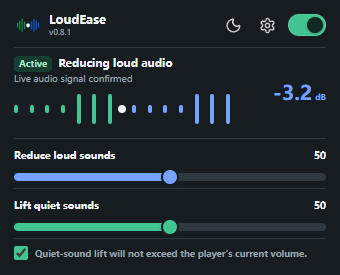
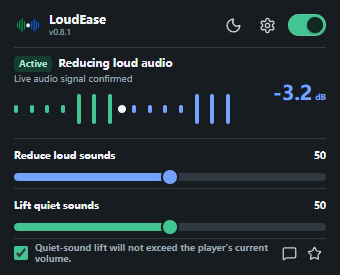
fix: keep support links compact in popup

Changed region(s): [[0.0882, 0.8727, 0.9412, 0.96]]

diff --git a/popup/index.css b/popup/index.css
@@ -29,7 +29,7 @@
 body { margin: 0; min-inline-size: 340px; color: var(--text); background: var(--surface); }
 button, input { font: inherit; }
 .shell { inline-size: 340px; padding: 12px 14px 11px; display: grid; gap: 0; overflow: hidden; }
-.header, .brand, .headerActions, .statusLine, .strengthTop, .limitSetting, .recoveryActions { display: flex; align-items: center; }
+.header, .brand, .headerActions, .statusLine, .strengthTop, .footerRow, .limitSetting, .supportActions, .recoveryActions { display: flex; align-items: center; }
 .header { block-size: 36px; justify-content: space-between; gap: 10px; border-block-end: 1px solid var(--line); padding-block-end: 9px; }
 .brand { gap: 7px; min-inline-size: 0; }
 .headerActions { flex: none; gap: 8px; }
@@ -95,8 +95,12 @@ output { font-size: 10px; font-weight: 760; font-variant-numeric: tabular-nums; 
 #liftRange { --accent: var(--input); }
 .strengthRange::-webkit-slider-thumb { inline-size: 18px; block-size: 18px; border: 2px solid var(--surface); border-radius: 50%; appearance: none; background: var(--accent); box-shadow: 0 1px 4px rgba(23, 32, 43, .16); }
 .strengthControl.isUnavailable { opacity: .45; }
-.limitSetting { min-block-size: 29px; gap: 7px; color: var(--muted); font-size: 9px; font-weight: 650; line-height: 1.25; cursor: pointer; }
+.footerRow { min-block-size: 29px; justify-content: space-between; gap: 7px; }
+.limitSetting { min-inline-size: 0; gap: 7px; color: var(--muted); font-size: 9px; font-weight: 650; line-height: 1.25; cursor: pointer; }
 .limitSetting input { inline-size: 14px; block-size: 14px; flex: none; margin: 0; accent-color: var(--input); }
+.supportActions { flex: none; gap: 1px; }
+.supportActions .iconButton { inline-size: 24px; block-size: 24px; padding: 4px; }
+.supportActions .iconButton img { inline-size: 15px; block-size: 15px; }
 .noticeStrip { margin-block-start: 6px; padding: 6px 7px; border-inline-start: 3px solid var(--warning); border-radius: 3px; color: #713f00; background: #fff2d9; font-size: 10px; overflow-wrap: anywhere; }
 .noticeChip + .noticeChip::before { content: " · "; }
 .recoveryActions { gap: 6px; flex-wrap: wrap; }

diff --git a/monitor/index.js b/monitor/index.js
@@ -8,8 +8,6 @@ const els = {
   tabs: document.getElementById('tabs'),
   events: document.getElementById('events'),
   refreshNow: document.getElementById('refreshNow'),
-  rateStore: document.getElementById('rateStore'),
-  starGitHub: document.getElementById('starGitHub'),
   shareFeedback: document.getElementById('shareFeedback'),
   shareReport: document.getElementById('shareReport'),
   copyJson: document.getElementById('copyJson'),
@@ -481,16 +479,6 @@ async function shareListeningFeedback() {
   els.health.textContent = t('feedbackOpened', undefined, 'Listening feedback form opened.');
 }
 
-async function openStoreReview() {
-  await openExternal('https://chromewebstore.google.com/detail/loudease/gdkaclfjhmenjhoemdkjlpafdhengjog/reviews');
-  els.health.textContent = t('storeReviewOpened', undefined, 'Chrome Web Store reviews opened.');
-}
-
-async function openGitHubProject() {
-  await openExternal('https://github.com/WSL043/loudease');
-  els.health.textContent = t('githubOpened', undefined, 'GitHub project opened.');
-}
-
 async function shareDiagnostics() {
   await copyDiagnostics();
   await openExternal('https://github.com/WSL043/loudease/issues/new?template=audio-quality.yml');
@@ -547,8 +535,6 @@ function bind() {
     els.settingsHealth.textContent = t('editingSite', siteKey, `Editing ${siteKey}`);
   });
   els.copyJson.addEventListener('click', () => copyDiagnostics().catch(reportDiagnosticsError));
-  els.rateStore.addEventListener('click', () => openStoreReview().catch(reportDiagnosticsError));
-  els.starGitHub.addEventListener('click', () => openGitHubProject().catch(reportDiagnosticsError));
   els.shareFeedback.addEventListener('click', () => shareListeningFeedback().catch(reportDiagnosticsError));
   els.shareReport.addEventListener('click', () => shareDiagnostics().catch(reportDiagnosticsError));
   els.downloadJson.addEventListener('click', () => downloadDiagnostics().catch(reportDiagnosticsError));

diff --git a/tools/assert_monitor_options.js b/tools/assert_monitor_options.js
@@ -25,8 +25,6 @@ const requiredIds = [
   'deleteSite',
   'resetSettings',
   'downloadJson',
-  'rateStore',
-  'starGitHub',
   'shareFeedback',
   'shareReport',
   'reportJson'
@@ -48,7 +46,6 @@ const checks = [
   ['monitor can toggle local diagnostics and export diagnostics', /type: 'WVB_SET_LOCAL_DIAGNOSTICS'/.test(monitorJs) && /new Blob\(\[JSON\.stringify\(supportReport\(lastSnapshot\), null, 2\)\]/.test(monitorJs)],
   ['voluntary report is copied locally before GitHub is opened', /async function shareDiagnostics/.test(monitorJs) && /await copyDiagnostics\(\)/.test(monitorJs) && /issues\/new\?template=audio-quality\.yml/.test(monitorJs)],
   ['structured listening feedback has a direct user-initiated route', /async function shareListeningFeedback/.test(monitorJs) && /issues\/new\?template=feedback\.yml/.test(monitorJs)],
-  ['support routes expose voluntary store reviews and GitHub stars', /async function openStoreReview/.test(monitorJs) && /chromewebstore\.google\.com\/detail\/loudease\/gdkaclfjhmenjhoemdkjlpafdhengjog\/reviews/.test(monitorJs) && /async function openGitHubProject/.test(monitorJs) && /github\.com\/WSL043\/loudease/.test(monitorJs)],
   ['support reports redact errors and exclude browsing identifiers', /\[url removed\]/.test(supportReportBody) && /\[path removed\]/.test(supportReportBody) && /eventCounts/.test(supportReportBody) && !/\btabId\b/.test(supportReportBody) && !/siteCategory|hostname|page title/i.test(supportReportBody)],
   ['support report is versioned and includes privacy-safe DSP evidence', /schemaVersion: 1/.test(supportReportBody) && /reportScope: 'manual-support-snapshot'/.test(supportReportBody) && /averageInputDb/.test(supportReportBody) && /limiterTickCount/.test(supportReportBody)]
 ];

diff --git a/tools/assert_popup_truthfulness.js b/tools/assert_popup_truthfulness.js
@@ -6,9 +6,12 @@ const html = fs.readFileSync(path.join(root, 'popup', 'index.html'), 'utf8');
 const popup = fs.readFileSync(path.join(root, 'popup', 'index.js'), 'utf8');
 const css = fs.readFileSync(path.join(root, 'popup', 'index.css'), 'utf8');
 const background = fs.readFileSync(path.join(root, 'background.js'), 'utf8');
+const monitorHtml = fs.readFileSync(path.join(root, 'monitor', 'index.html'), 'utf8');
 
 const checks = [
   ['popup explains only genuinely blocked quiet lift', /function liftBlockedNotice/.test(popup) && /playerVolumeConflict/.test(popup) && /playerVolumeKnown/.test(popup) && /quietDeficitDb/.test(popup) && /effectiveMaxLiftDb/.test(popup)],
+  ['popup keeps voluntary review and star actions as compact accessible icons', ['reviewButton', 'githubButton'].every((id) => html.includes(`id="${id}"`)) && /data-i18n-aria-label="rateStore"/.test(html) && /data-i18n-aria-label="starGitHub"/.test(html) && /chromewebstore\.google\.com\/detail\/loudease\/gdkaclfjhmenjhoemdkjlpafdhengjog\/reviews/.test(popup) && /github\.com\/WSL043\/loudease/.test(popup)],
+  ['settings page does not promote reviews with a large support card', !/supportPanel|id="rateStore"|id="starGitHub"/.test(monitorHtml)],
   ['popup omits presets and modes', !/data-preset|presetBar|presetButton/.test(html)],
   ['manual strength edits become custom preset', /preset: 'custom'/.test(popup)],
   ['committed strength changes flush persistence immediately', /addEventListener\('change',[\s\S]*?flushPersistSettings\(strengthSaveOptions\(\)\)/.test(popup) && /function flushPersistSettings\(options = \{\}\)/.test(popup)],

diff --git a/monitor/index.html b/monitor/index.html
@@ -115,17 +115,6 @@
           <header class="viewHeader">
             <div><h1 data-i18n="diagnosticsTab">Support &amp; diagnostics</h1><p data-i18n="supportReportHelp">Create a privacy-safe report for bug reports and support.</p><span id="health" class="inlineStatus" data-i18n="waitingForData">Waiting for data</span></div>
           </header>
-          <section class="reportPanel supportPanel" aria-labelledby="supportHeading">
-            <div class="reportCopy">
-              <span class="kicker" data-i18n="supportLoudEase">Support LoudEase</span>
-              <h2 id="supportHeading" data-i18n="supportLoudEaseHeading">Is LoudEase helping?</h2>
-              <p data-i18n="supportLoudEaseHelp">An honest store review or GitHub star helps other listeners find the project. No reward or positive rating is expected.</p>
-            </div>
-            <div class="reportActions">
-              <button id="rateStore" class="primaryButton" type="button" data-i18n="rateStore">Review on Chrome Web Store</button>
-              <button id="starGitHub" class="quietButton" type="button" data-i18n="starGitHub">Star on GitHub</button>
-            </div>
-          </section>
           <section class="reportPanel" aria-labelledby="reportHeading">
             <div class="reportCopy">
               <span class="kicker" data-i18n="voluntaryReportLabel">Voluntary report</span>

diff --git a/popup/index.html b/popup/index.html
@@ -62,10 +62,20 @@
       </label>
     </section>
 
-    <label class="limitSetting">
-      <input id="respectPlayerVolume" type="checkbox">
-      <span data-i18n="playerLimitStatement">Quiet-sound lift will not exceed the player's current volume.</span>
-    </label>
+    <div class="footerRow">
+      <label class="limitSetting">
+        <input id="respectPlayerVolume" type="checkbox">
+        <span data-i18n="playerLimitStatement">Quiet-sound lift will not exceed the player's current volume.</span>
+      </label>
+      <div class="supportActions" data-i18n-aria-label="supportLoudEase" aria-label="Support LoudEase">
+        <button id="reviewButton" class="iconButton" type="button" data-i18n-title="rateStore" data-i18n-aria-label="rateStore" title="Review on Chrome Web Store" aria-label="Review on Chrome Web Store">
+          <img src="../assets/message-square.svg" alt="" aria-hidden="true">
+        </button>
+        <button id="githubButton" class="iconButton" type="button" data-i18n-title="starGitHub" data-i18n-aria-label="starGitHub" title="Star on GitHub" aria-label="Star on GitHub">
+          <img src="../assets/star.svg" alt="" aria-hidden="true">
+        </button>
+      </div>
+    </div>
 
     <div id="noticeStrip" class="noticeStrip" role="status" hidden></div>
     <div class="recoveryActions">

diff --git a/popup/index.js b/popup/index.js
@@ -17,6 +17,8 @@ const elements = {
   healthLabel: document.getElementById('healthLabel'),
   themeButton: document.getElementById('themeButton'),
   settingsButton: document.getElementById('settingsButton'),
+  reviewButton: document.getElementById('reviewButton'),
+  githubButton: document.getElementById('githubButton'),
   respectPlayerVolume: document.getElementById('respectPlayerVolume'),
   cutDial: document.getElementById('cutDial'),
   liftDial: document.getElementById('liftDial'),
@@ -747,6 +749,12 @@ function bind() {
       return;
     }
     location.assign('../monitor/index.html');
+  });
+  elements.reviewButton.addEventListener('click', () => {
+    chrome.tabs.create({ url: 'https://chromewebstore.google.com/detail/loudease/gdkaclfjhmenjhoemdkjlpafdhengjog/reviews' });
+  });
+  elements.githubButton.addEventListener('click', () => {
+    chrome.tabs.create({ url: 'https://github.com/WSL043/loudease' });
   });
 
   globalThis.chrome?.storage?.onChanged?.addListener(handleStorageChanged);

diff --git a/monitor/index.css b/monitor/index.css
@@ -92,8 +92,6 @@ button:focus-visible, input:focus-visible, select:focus-visible { outline: 2px s
 .siteRow span { color: var(--muted); font-size: 10px; }
 .inlineStatus { display: block; margin-block-start: 6px; color: var(--muted); font-size: 10px; }
 .reportPanel { display: grid; grid-template-columns: minmax(0, 1fr) auto; gap: 16px 24px; padding: 18px 20px; border-block-end: 1px solid var(--line); background: color-mix(in srgb, var(--input) 5%, var(--surface)); }
-.supportPanel { background: color-mix(in srgb, var(--output) 5%, var(--surface)); }
-.supportPanel .kicker { color: var(--output); }
 .reportCopy { min-inline-size: 0; }
 .kicker { display: block; margin-block-end: 5px; color: var(--input); font-size: 9px; font-weight: 780; text-transform: uppercase; }
 .reportCopy h2 { font-size: 16px; }

diff --git a/ASSET_PROVENANCE.md b/ASSET_PROVENANCE.md
@@ -18,7 +18,7 @@ Modified distributions must replace the LoudEase name, logo, and icons with a di
 | Files | Origin | License |
 |---|---|---|
 | `assets/moon.svg` | Lucide `moon`, derived from Feather Icons | MIT |
-| `assets/settings.svg`, `assets/sun.svg` | Lucide Icons | ISC |
+| `assets/message-square.svg`, `assets/settings.svg`, `assets/star.svg`, `assets/sun.svg` | Lucide Icons | ISC |
 
 The required copyright and permission notices are reproduced in `THIRD_PARTY_NOTICES.md`; machine-readable mappings are in `REUSE.toml`.
 

diff --git a/THIRD_PARTY_NOTICES.md b/THIRD_PARTY_NOTICES.md
@@ -4,7 +4,7 @@ LoudEase runtime code has no bundled third-party JavaScript dependency. The exte
 
 ## Lucide Icons
 
-Applies to `assets/settings.svg` and `assets/sun.svg`.
+Applies to `assets/message-square.svg`, `assets/settings.svg`, `assets/star.svg`, and `assets/sun.svg`.
 
 ISC License
 
